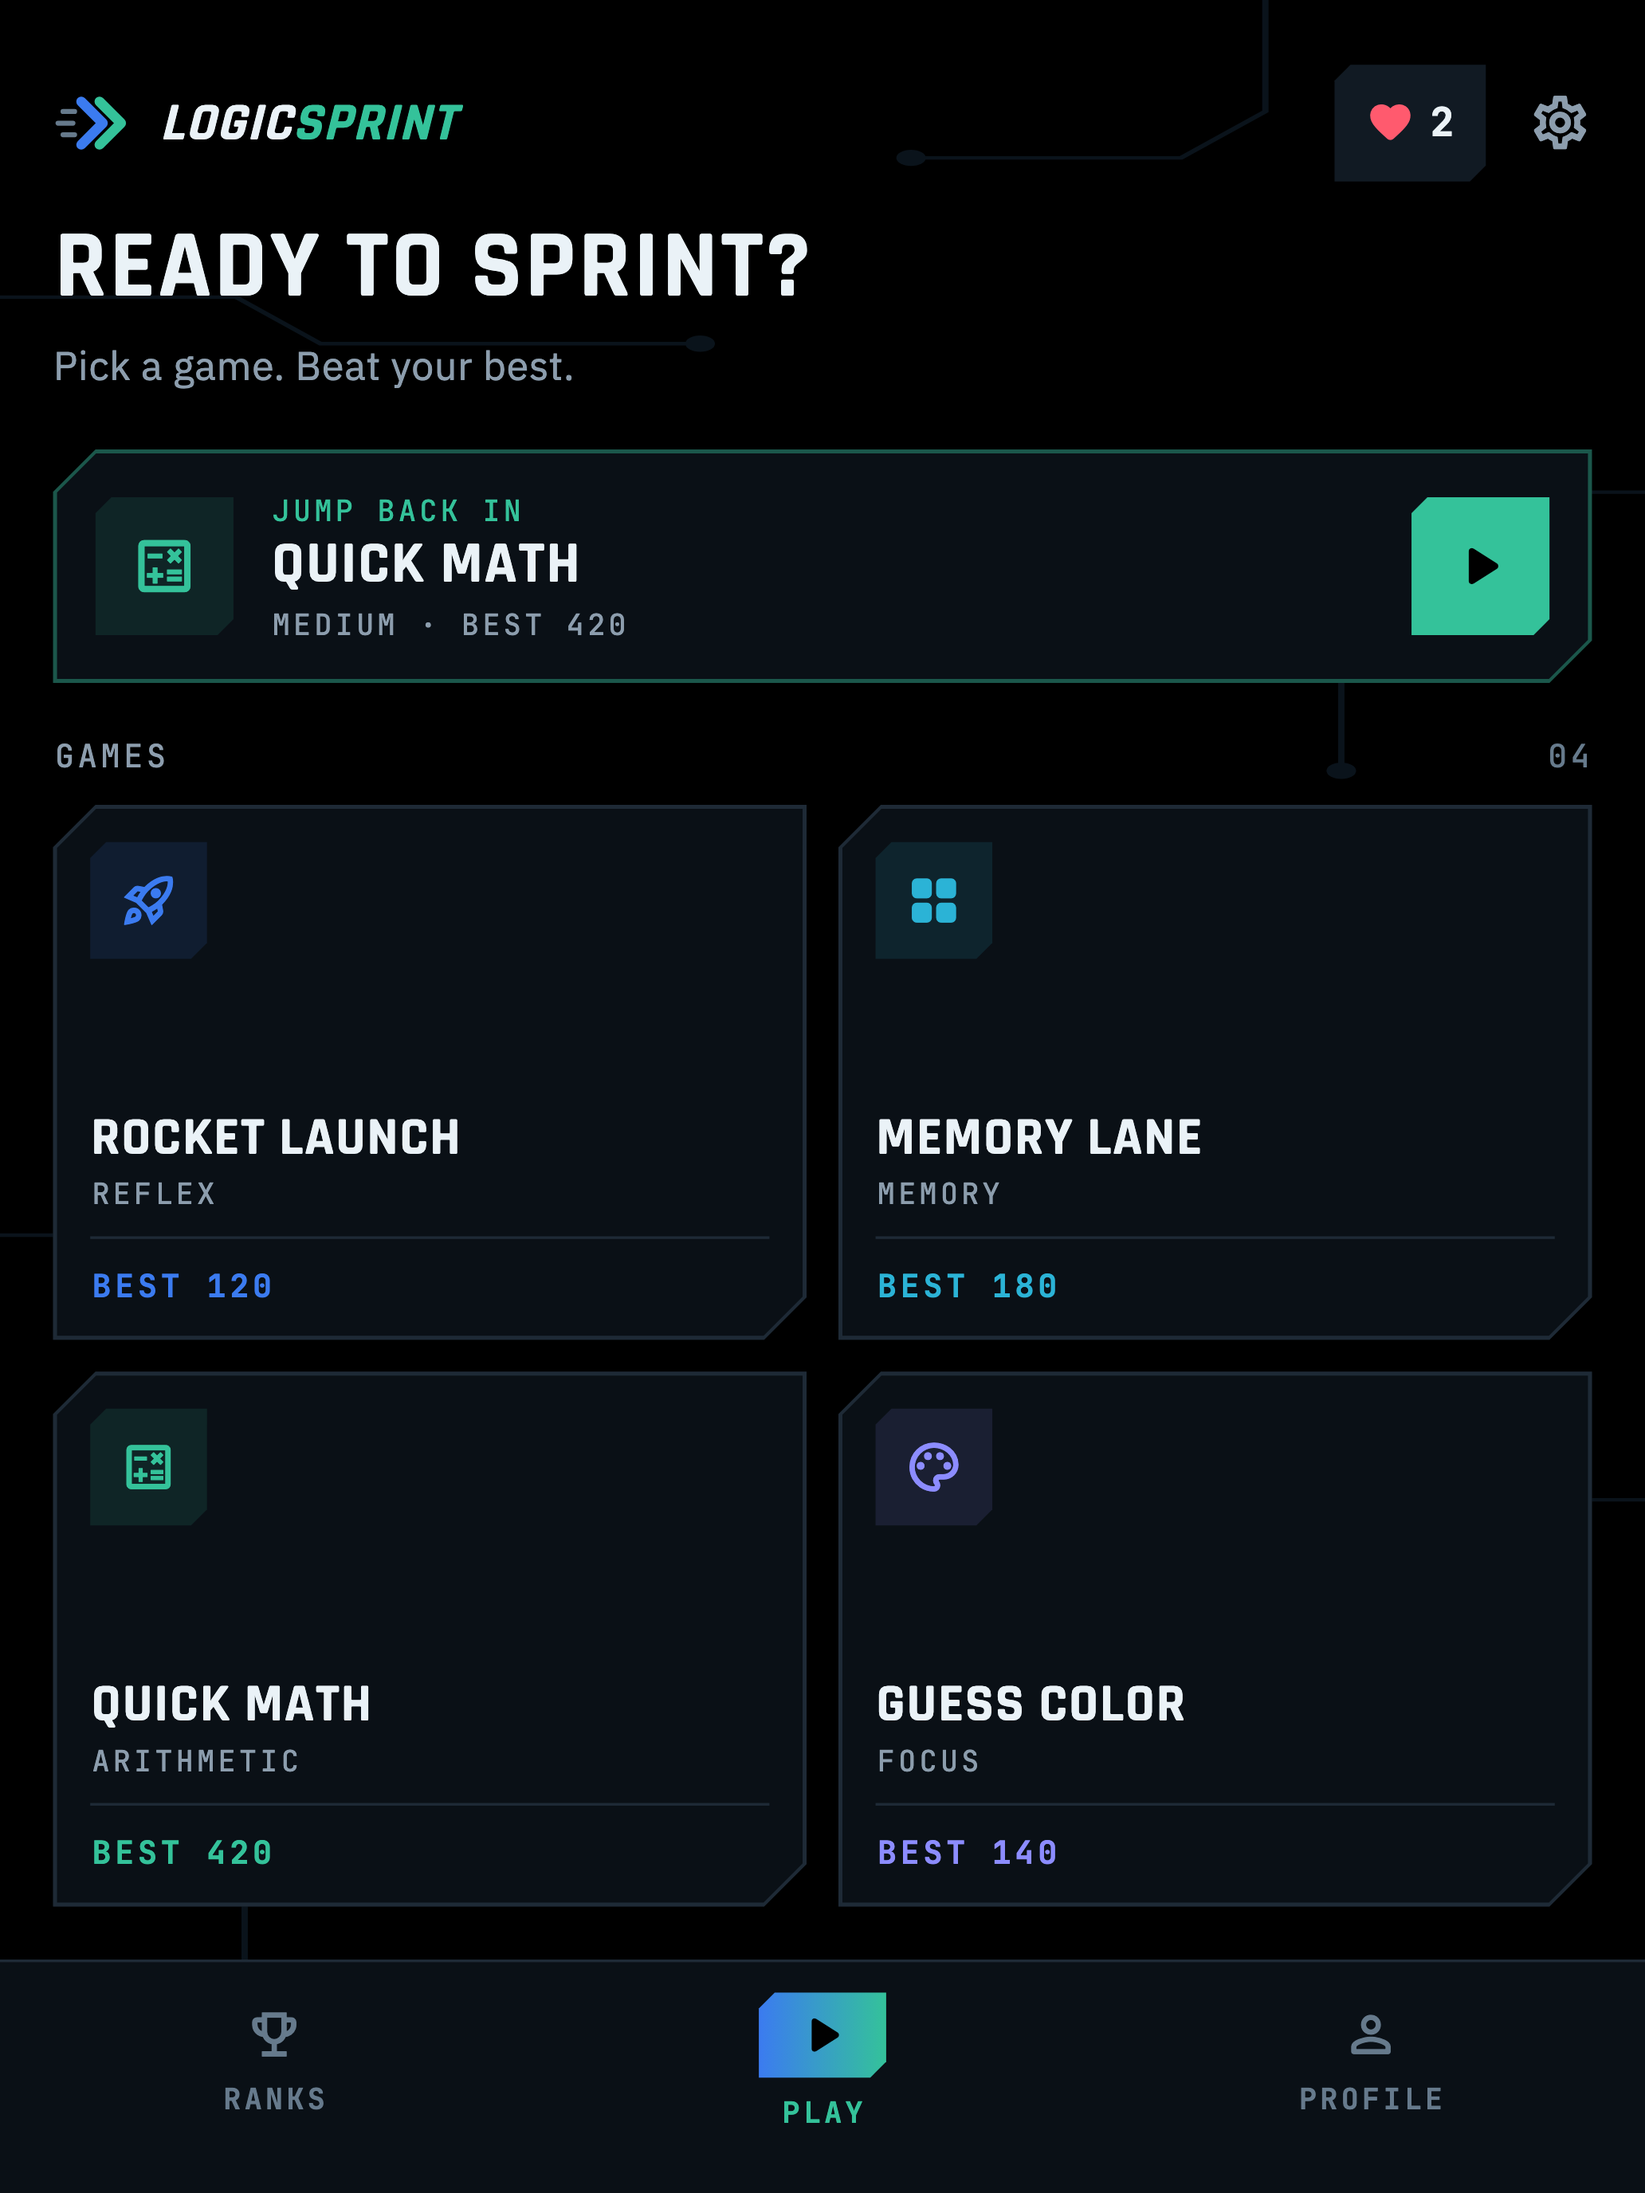
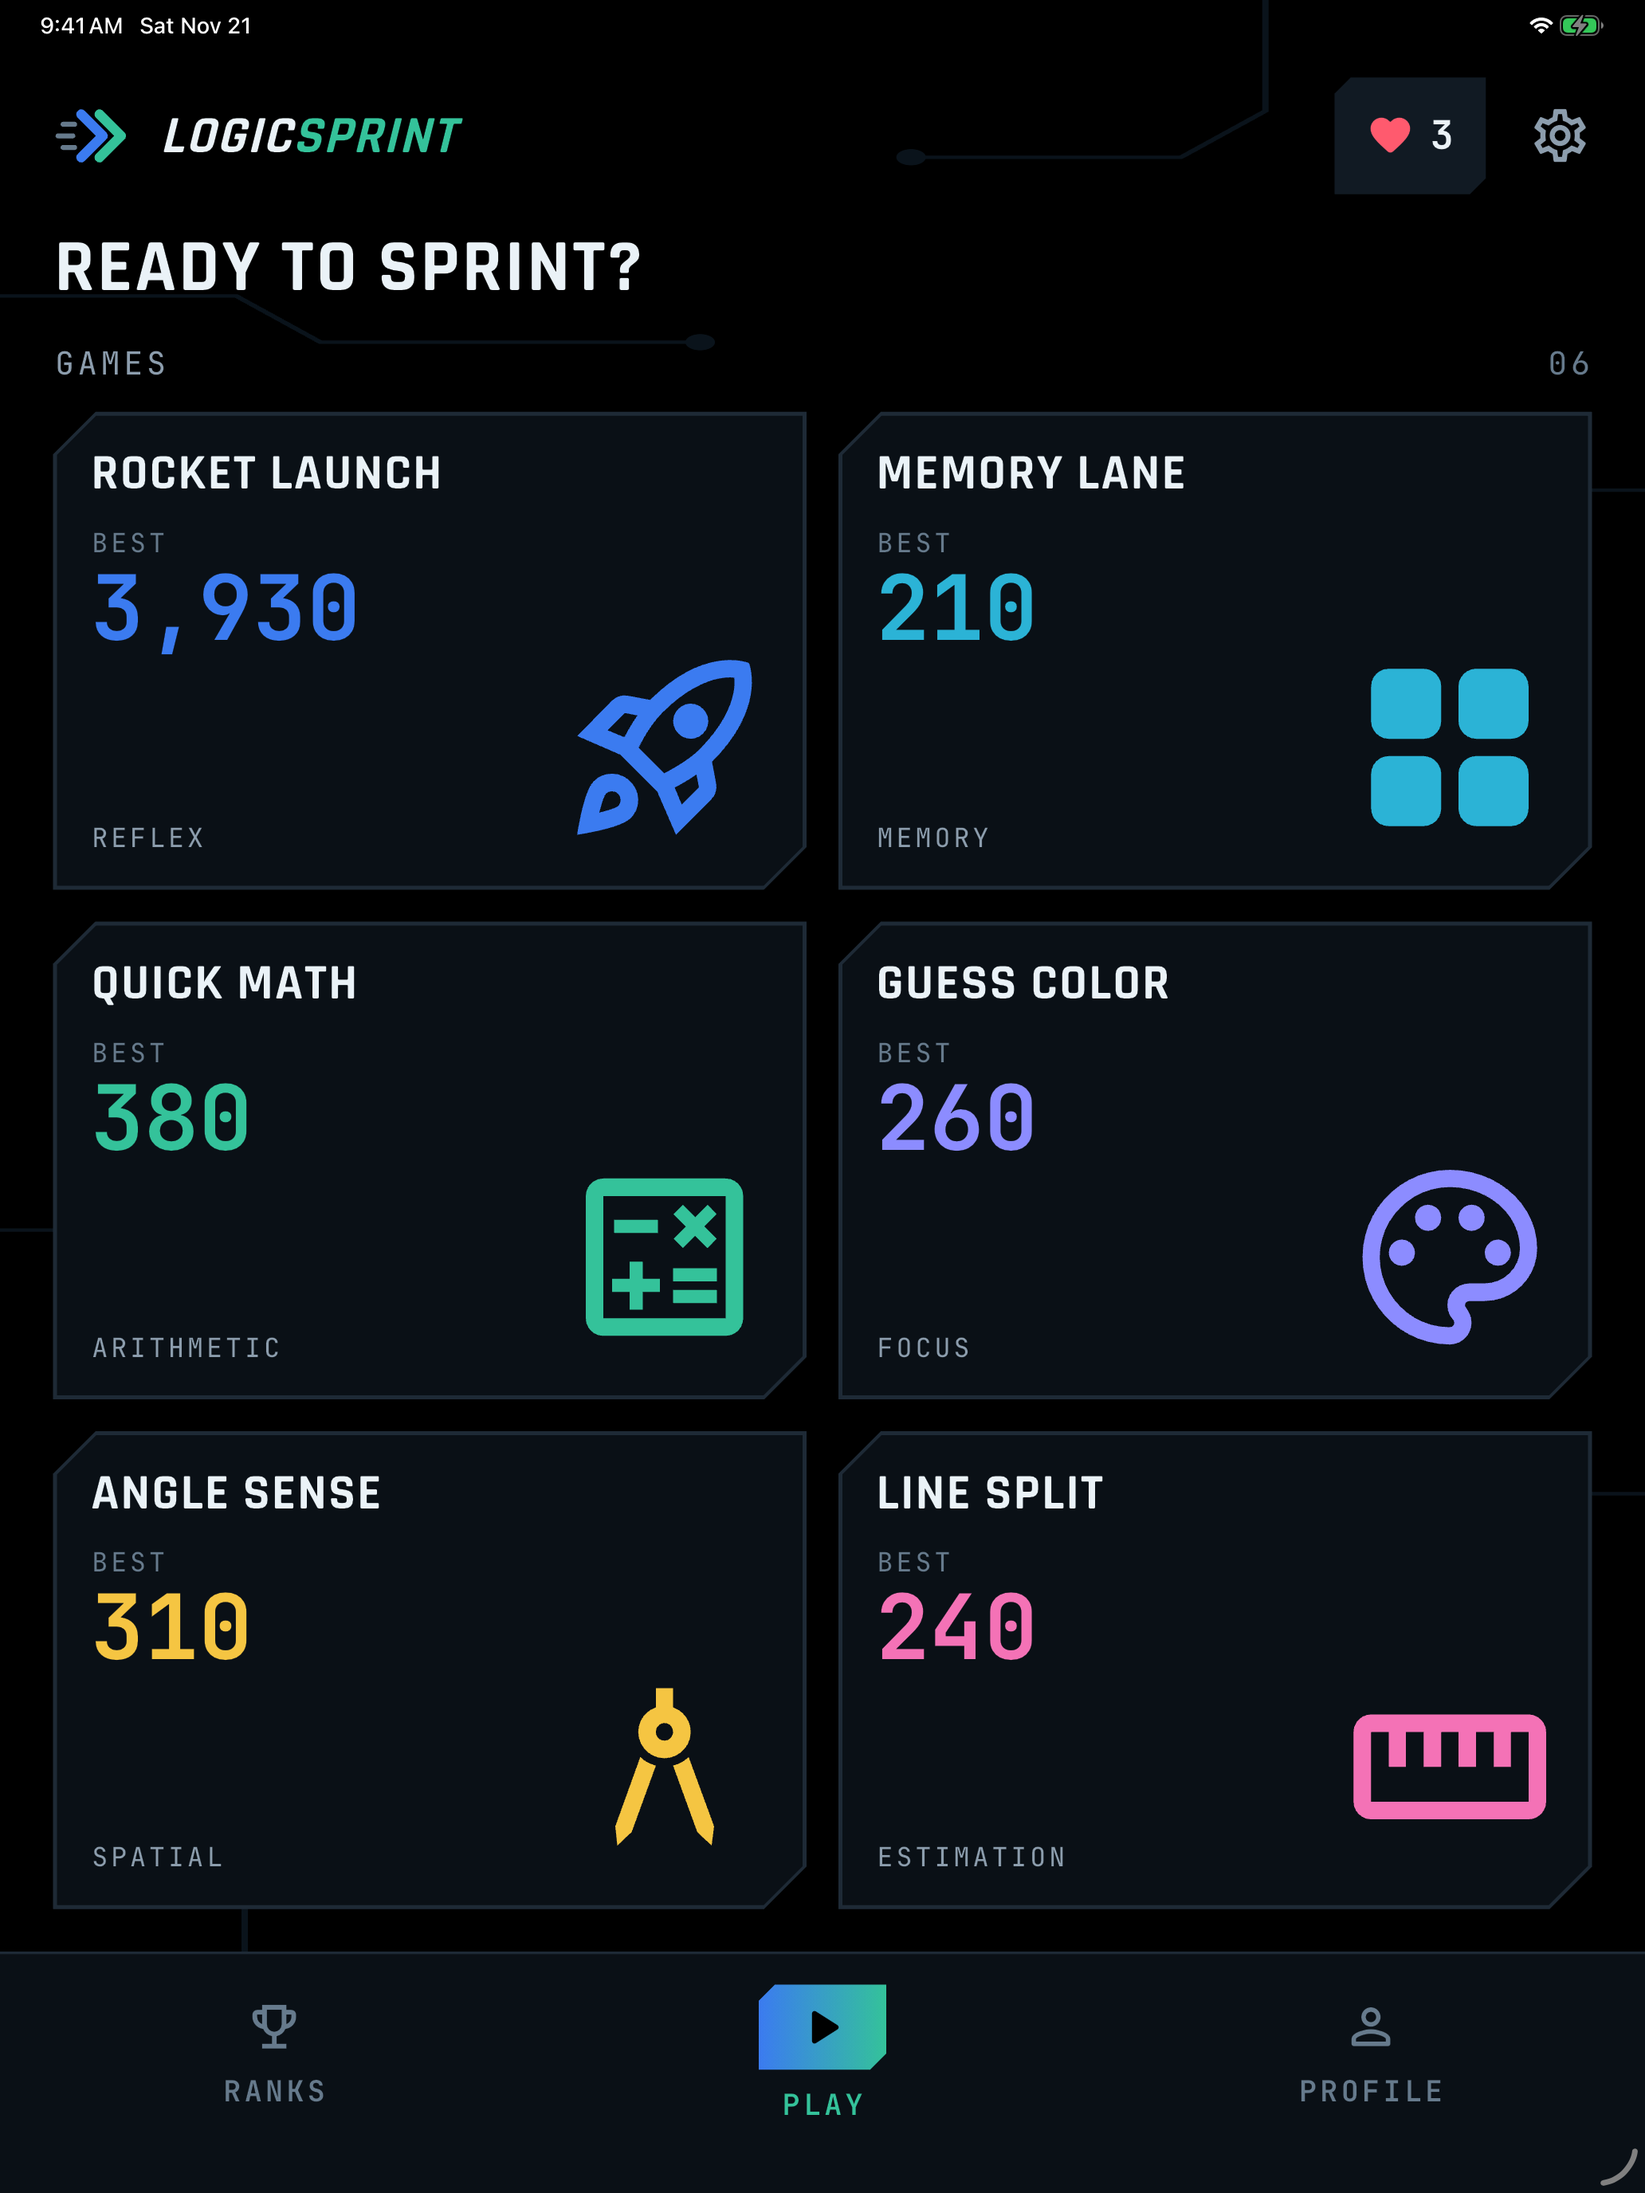
iPad 13-inch screenshots from the 1.1 build (six games, Sprint Score); README for 1.1

diff --git a/README.md b/README.md
@@ -2,11 +2,11 @@
 
 ![LogicSprint feature graphic](assets/brand/store/google_play/feature_graphic_1024x500.png)
 
-**LogicSprint** is a free Flutter brain-training app for Android and iPhone: four quick games, personal bests on the device, and an optional global Top 10 per game. No login. Ad-supported via Google AdMob.
+**LogicSprint** is a free Flutter brain-training app for Android and iPhone: six quick games, personal bests on the device, an optional global Top 10 per game and a Sprint Score across all six. No login. Ad-supported via Google AdMob.
 
 | | |
 |---|---|
-| **Version** | 1.0.3 |
+| **Version** | 1.1.0 |
 | **Platform** | Android (Google Play); iPhone and iPad ([App Store](https://apps.apple.com/us/app/logicsprint-brain-games/id6817549079)) |
 | **Stack** | Flutter 3.x, Dart 3.11+ |
 | **Storage** | `shared_preferences` on the device; Supabase for the leaderboard |
@@ -17,23 +17,20 @@
 
 <table>
   <tr>
-    <td align="center"><img src="assets/brand/store/google_play/screenshots/01_home.png" width="240" alt="Home"><br><sub>Home (Play tab)</sub></td>
-    <td align="center"><img src="assets/brand/store/google_play/screenshots/02_game_sheet.png" width="240" alt="Game sheet"><br><sub>Game sheet (ship picker)</sub></td>
-    <td align="center"><img src="assets/brand/store/google_play/screenshots/03_rocket_launch.png" width="240" alt="Rocket Launch"><br><sub>Rocket Launch</sub></td>
+    <td align="center"><img src="assets/brand/store/google_play/screenshots/01_home.png" width="180" alt="Home"><br><sub>Home (Play tab)</sub></td>
+    <td align="center"><img src="assets/brand/store/google_play/screenshots/02_rocket_launch.png" width="180" alt="Rocket Launch"><br><sub>Rocket Launch</sub></td>
+    <td align="center"><img src="assets/brand/store/google_play/screenshots/03_guess_color.png" width="180" alt="Guess Color"><br><sub>Guess Color</sub></td>
+    <td align="center"><img src="assets/brand/store/google_play/screenshots/04_angle_sense.png" width="180" alt="Angle Sense"><br><sub>Angle Sense</sub></td>
   </tr>
   <tr>
-    <td align="center"><img src="assets/brand/store/google_play/screenshots/04_memory_lane.png" width="240" alt="Memory Lane"><br><sub>Memory Lane</sub></td>
-    <td align="center"><img src="assets/brand/store/google_play/screenshots/05_quick_math.png" width="240" alt="Quick Math"><br><sub>Quick Math</sub></td>
-    <td align="center"><img src="assets/brand/store/google_play/screenshots/06_guess_color.png" width="240" alt="Guess Color"><br><sub>Guess Color</sub></td>
-  </tr>
-  <tr>
-    <td align="center"><img src="assets/brand/store/google_play/screenshots/07_result.png" width="240" alt="Result"><br><sub>Result</sub></td>
-    <td align="center"><img src="assets/brand/store/google_play/screenshots/08_ranks.png" width="240" alt="Ranks"><br><sub>Ranks</sub></td>
-    <td align="center"><img src="assets/brand/store/google_play/screenshots/09_profile.png" width="240" alt="Profile"><br><sub>Profile</sub></td>
+    <td align="center"><img src="assets/brand/store/google_play/screenshots/05_line_split.png" width="180" alt="Line Split"><br><sub>Line Split</sub></td>
+    <td align="center"><img src="assets/brand/store/google_play/screenshots/06_quick_math.png" width="180" alt="Quick Math"><br><sub>Quick Math</sub></td>
+    <td align="center"><img src="assets/brand/store/google_play/screenshots/07_ranks.png" width="180" alt="Ranks"><br><sub>Ranks</sub></td>
+    <td align="center"><img src="assets/brand/store/google_play/screenshots/08_profile.png" width="180" alt="Profile"><br><sub>Profile with Sprint Score</sub></td>
   </tr>
 </table>
 
-These are the Google Play screenshots (9:16), rendered from the real screens. See [Store screenshots](#store-screenshots) to regenerate them.
+These are the Google Play screenshots (9:16): real 1.1 screens in the store frames. See [Store screenshots](#store-screenshots) to regenerate them.
 
 ---
 
@@ -47,6 +44,8 @@ Every game is an **endless run**: it keeps getting harder until your first mista
 | **Memory Lane** | Memory | Tiles flash in sequence; tap them back in order, one more tile each level; one wrong tap ends the run | Easy 3×3 · Medium 4×4 · Hard 5×5 |
 | **Quick Math** | Arithmetic | Tap the right answer of four; numbers and operations grow every 10 problems; one wrong answer ends the run | Easy + − · Medium + − × · Hard + − × ÷ |
 | **Guess Color** | Focus | A COLOR \| TEXT switch sets the rule: COLOR = tap the color the word is painted in, TEXT = tap the color the word names. The rule flips, buttons shuffle, their labels stop matching their colors, and the countdown shrinks from 3 s to 1 s | Gets trickier as you go |
+| **Angle Sense** | Spatial | READ: set the degree tape to the angle shown, then Lock. DRAW: drag the arm to the angle named. Close enough keeps you going, within 3° is Sharp, and 2 shields let you miss twice | Easy one arm stays put, no timer · Medium clocks, pies, compass, timer · Hard any angle, any way, fast |
+| **Line Split** | Estimation | Touch the line where the number falls (½, then ⅓, ⅜, 0.43, mixed numbers, longer lines with hidden ticks), slide to adjust, let go. 2 shields | Gets finer as you go |
 
 ---
 
@@ -121,7 +120,7 @@ The "AdMob App ID" build phase writes `ADMOB_APP_ID` into Info.plist, and releas
 
 - An invisible anonymous Supabase account per install; the display name (Result, Ranks or Profile) comes with a 4-digit code, `NEON_FOX#0420`: names can repeat, name + code can't, and the app can find a free code
 - Every finished run is sent automatically (queued while offline): the server keeps each player's best and play count per game and difficulty
-- One Top 10 per game (and per difficulty for Memory Lane and Quick Math) plus your own rank pinned below it; ties go to the faster run in Memory Lane and Quick Math, and to the earlier best elsewhere
+- One Top 10 per game (and per difficulty for Memory Lane, Quick Math and Angle Sense) plus your own rank pinned below it; ties go to the faster run in Memory Lane and Quick Math, and to the earlier best elsewhere
 - Boards update once a day for everyone: the first look after 00:00 UTC fetches every board in one request, and Ranks shows when they were fetched and counts down to the next update. A new personal best moves you on your own board straight away and goes to the server; others see it after the next reset, or sooner with **Refresh ▶** (a rewarded interstitial that pulls everyone's latest scores now, then a 30 min cooldown). Your row shines when it appears. Requests time out after 8 s
 - Run History stays on the device (Profile); fully playable offline
 - Moderation: names with a word from `banned_words` are refused; long-press another player's row on Ranks to report it, and three reports hide the name until its owner picks a new one
@@ -129,6 +128,12 @@ The "AdMob App ID" build phase writes `ADMOB_APP_ID` into Info.plist, and releas
 - `record_run` never turns an implausible score into a best (timed games over 60 points a second, other games over 50 000); the run still counts as a play
 
 Setup: enable **Anonymous sign-ins** (Authentication → Providers), then run [supabase/schema.sql](supabase/schema.sql) in the SQL editor. The publishable key in `lib/core/config.dart` is safe to ship: tables are read-only under RLS, and writes go through `claim_name` / `record_run` / `report_name` / `delete_my_data` (`free_tag` suggests a code), which only touch the caller's own rows. The `player_stats` and `game_stats` views feed the product page.
+
+- **Sprint Score**: one "Top X%" across every game, on Profile. The `player_ratings` view (rebuilt daily at 00:00 UTC by pg_cron) takes your percentile on each board with 30+ players scoring above 0, ordered like the boards so equal scores get their own place; Easy is capped at 90 and Medium at 97. Each game you've played 3+ times counts its best board; R = (sum + 2 × 50) ÷ (games + 2), so steady skill beats one spike; your rating is R's percentile among players rated in 2+ games. `my_rating()` returns it rounded up (1, 2, 5, 10, 15, 20, 25, then tens) once 50+ players are rated. `lib/models/sprint_rating.dart` is the same maths, unit-tested. Before that, Profile says "Play more games to get your score"
+
+## Music
+
+Each game has its own quiet loop in `assets/audio/`, composed for the app by `tool/compose_music.py` (no licence needed): space ambience for Rocket Launch, piano for Memory Lane, marimba for Quick Math, electric-piano bells for Guess Color, a music box for Angle Sense and kalimba for Line Split. It plays only during a live run, fades out on pause, revive offers, ads and game over, mixes with other apps' audio, follows the silent switch, and can be turned off in Settings → Music. See `lib/services/music.dart`.
 
 ---
 
